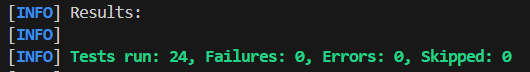
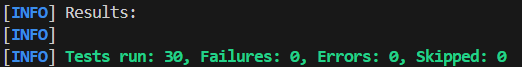
cool beans

Changed region(s): [[0.0, 0.3582, 0.9808, 1.0], [0.0, 0.0597, 0.2759, 0.3284]]

diff --git a/src/test/java/com.ontariotechu.sofe3980U/BinaryAPIControllerTest.java b/src/test/java/com.ontariotechu.sofe3980U/BinaryAPIControllerTest.java
@@ -32,17 +32,80 @@ public class BinaryAPIControllerTest {
     @Autowired
     private MockMvc mvc;
 
+    /*************************
+     * Test return Strings
+     *************************/
     // Test for adding two binary numbers and expecting the result as a string
     @Test
-    public void add() throws Exception {
+    public void addTest() throws Exception {
         this.mvc.perform(get("/add").param("operand1","111").param("operand2","1010"))
             .andExpect(status().isOk())
             .andExpect(content().string("10001"));
     }
 
+    // Test for adding two binary numbers with empty operands and expecting the result as a string
+    @Test
+    public void addTestEmpty() throws Exception {
+        this.mvc.perform(get("/add").param("operand1","").param("operand2",""))
+            .andExpect(status().isOk())
+            .andExpect(content().string("0"));
+    }
+
+    // Test for AND operation between two binary numbers
+    @Test
+    public void andTest() throws Exception {
+        this.mvc.perform(get("/and").param("operand1", "111").param("operand2", "1010"))
+            .andExpect(status().isOk())
+            .andExpect(content().string("10"));
+    }
+
+    // Test for AND operation with empty operands
+    @Test
+    public void andTestEmpty() throws Exception {
+        this.mvc.perform(get("/and").param("operand1", "").param("operand2", ""))
+            .andExpect(status().isOk())
+            .andExpect(content().string("0"));
+    }
+
+    // Test for OR operation between two binary numbers
+    @Test
+    public void orTest() throws Exception {
+        this.mvc.perform(get("/or").param("operand1", "111").param("operand2", "1010"))
+            .andExpect(status().isOk())
+            .andExpect(content().string("1111"));
+    }
+
+    // Test for OR operation with empty operands
+    @Test
+    public void orTestEmpty() throws Exception {
+        this.mvc.perform(get("/or").param("operand1", "").param("operand2", ""))
+            .andExpect(status().isOk())
+            .andExpect(content().string("0"));
+    }
+
+    // Test for multiply operation between two binary numbers
+    @Test
+    public void multiplyTest() throws Exception {
+        this.mvc.perform(get("/multiply").param("operand1", "101").param("operand2", "11"))
+            .andExpect(status().isOk())
+            .andExpect(content().string("1111"));
+    }
+
+    // Test for multiply operation with empty operands
+    @Test
+    public void multiplyTestEmpty() throws Exception {
+        this.mvc.perform(get("/multiply").param("operand1", "").param("operand2", ""))
+            .andExpect(status().isOk())
+            .andExpect(content().string("0"));
+    }
+
+
+    /*************************
+     * Test return JSON
+     *************************/
     // Test for adding two binary numbers and expecting the result in JSON format
     @Test
-    public void add2() throws Exception {
+    public void addTestJSON() throws Exception {
         this.mvc.perform(get("/add_json").param("operand1","111").param("operand2","1010"))
             .andExpect(status().isOk())
             .andExpect(MockMvcResultMatchers.jsonPath("$.operand1").value(111))
@@ -82,14 +145,6 @@ public class BinaryAPIControllerTest {
             .andExpect(MockMvcResultMatchers.jsonPath("$.operand2").value(1010))
             .andExpect(MockMvcResultMatchers.jsonPath("$.result").value(10))
             .andExpect(MockMvcResultMatchers.jsonPath("$.operator").value("and"));
-    }
-
-    // Test for adding two binary numbers with empty operands and expecting the result as a string
-    @Test
-    public void testAddWithEmptyOperands() throws Exception {
-        this.mvc.perform(get("/add").param("operand1","").param("operand2",""))
-            .andExpect(status().isOk())
-            .andExpect(content().string("0"));
     }
 
     // Test for adding two binary numbers with empty operands and expecting the result in JSON format

diff --git a/src/main/java/com.ontariotechu.sofe3980U/BinaryAPIController.java b/src/main/java/com.ontariotechu.sofe3980U/BinaryAPIController.java
@@ -17,6 +17,32 @@ public class BinaryAPIController {
         return Binary.add(number1,number2).getValue();
 		// http://localhost:8080/add?operand1=111&operand2=1010
 	}
+	@GetMapping("/or")
+	public String orString(@RequestParam(name="operand1", required=false, defaultValue="") String operand1,
+						   @RequestParam(name="operand2", required=false, defaultValue="") String operand2) {
+		Binary number1 = new Binary(operand1);
+		Binary number2 = new Binary(operand2);
+		return Binary.or(number1, number2).getValue();
+		// http://localhost:8080/or?operand1=111&operand2=1010
+	}
+
+	@GetMapping("/and")
+	public String andString(@RequestParam(name="operand1", required=false, defaultValue="") String operand1,
+							@RequestParam(name="operand2", required=false, defaultValue="") String operand2) {
+		Binary number1 = new Binary(operand1);
+		Binary number2 = new Binary(operand2);
+		return Binary.and(number1, number2).getValue();
+		// http://localhost:8080/and?operand1=111&operand2=1010
+	}
+
+	@GetMapping("/multiply")
+	public String multiplyString(@RequestParam(name="operand1", required=false, defaultValue="") String operand1,
+								 @RequestParam(name="operand2", required=false, defaultValue="") String operand2) {
+		Binary number1 = new Binary(operand1);
+		Binary number2 = new Binary(operand2);
+		return Binary.multiply(number1, number2).getValue();
+		// http://localhost:8080/multiply?operand1=111&operand2=1010
+	}
 	
 	@GetMapping("/add_json")
 	public BinaryAPIResult addJSON(@RequestParam(name="operand1", required=false, defaultValue="") String operand1,

diff --git a/README.md b/README.md
@@ -10,7 +10,7 @@ In modern software development, efficient project management and automation of b
 
 The test cases for the Binary Calculator Webapp are designed to ensure the accuracy and reliability of the application's functionality. Below is a summary of the test cases as implemented in the Java file:
 
-**Note:** Both the WebApp and API tests follow the same structure and logic as the function tests listed below.
+**Note:** The WebApp and API tests follow the same structure and logic as the tests listed below.  The API can return as either String or JSON by going to the link at `/add` and `/add_string` respectively.  As such, there are 30 tests in total.
 
 | **Test Case Number** | **Function Tested**      | **Description**                                                                                     | **Input Values**                  | **Expected Values** | **Pass/Fail** |
 |---------------------|--------------------------|-----------------------------------------------------------------------------------------------------|-----------------------------------|---------------------|--------------|
